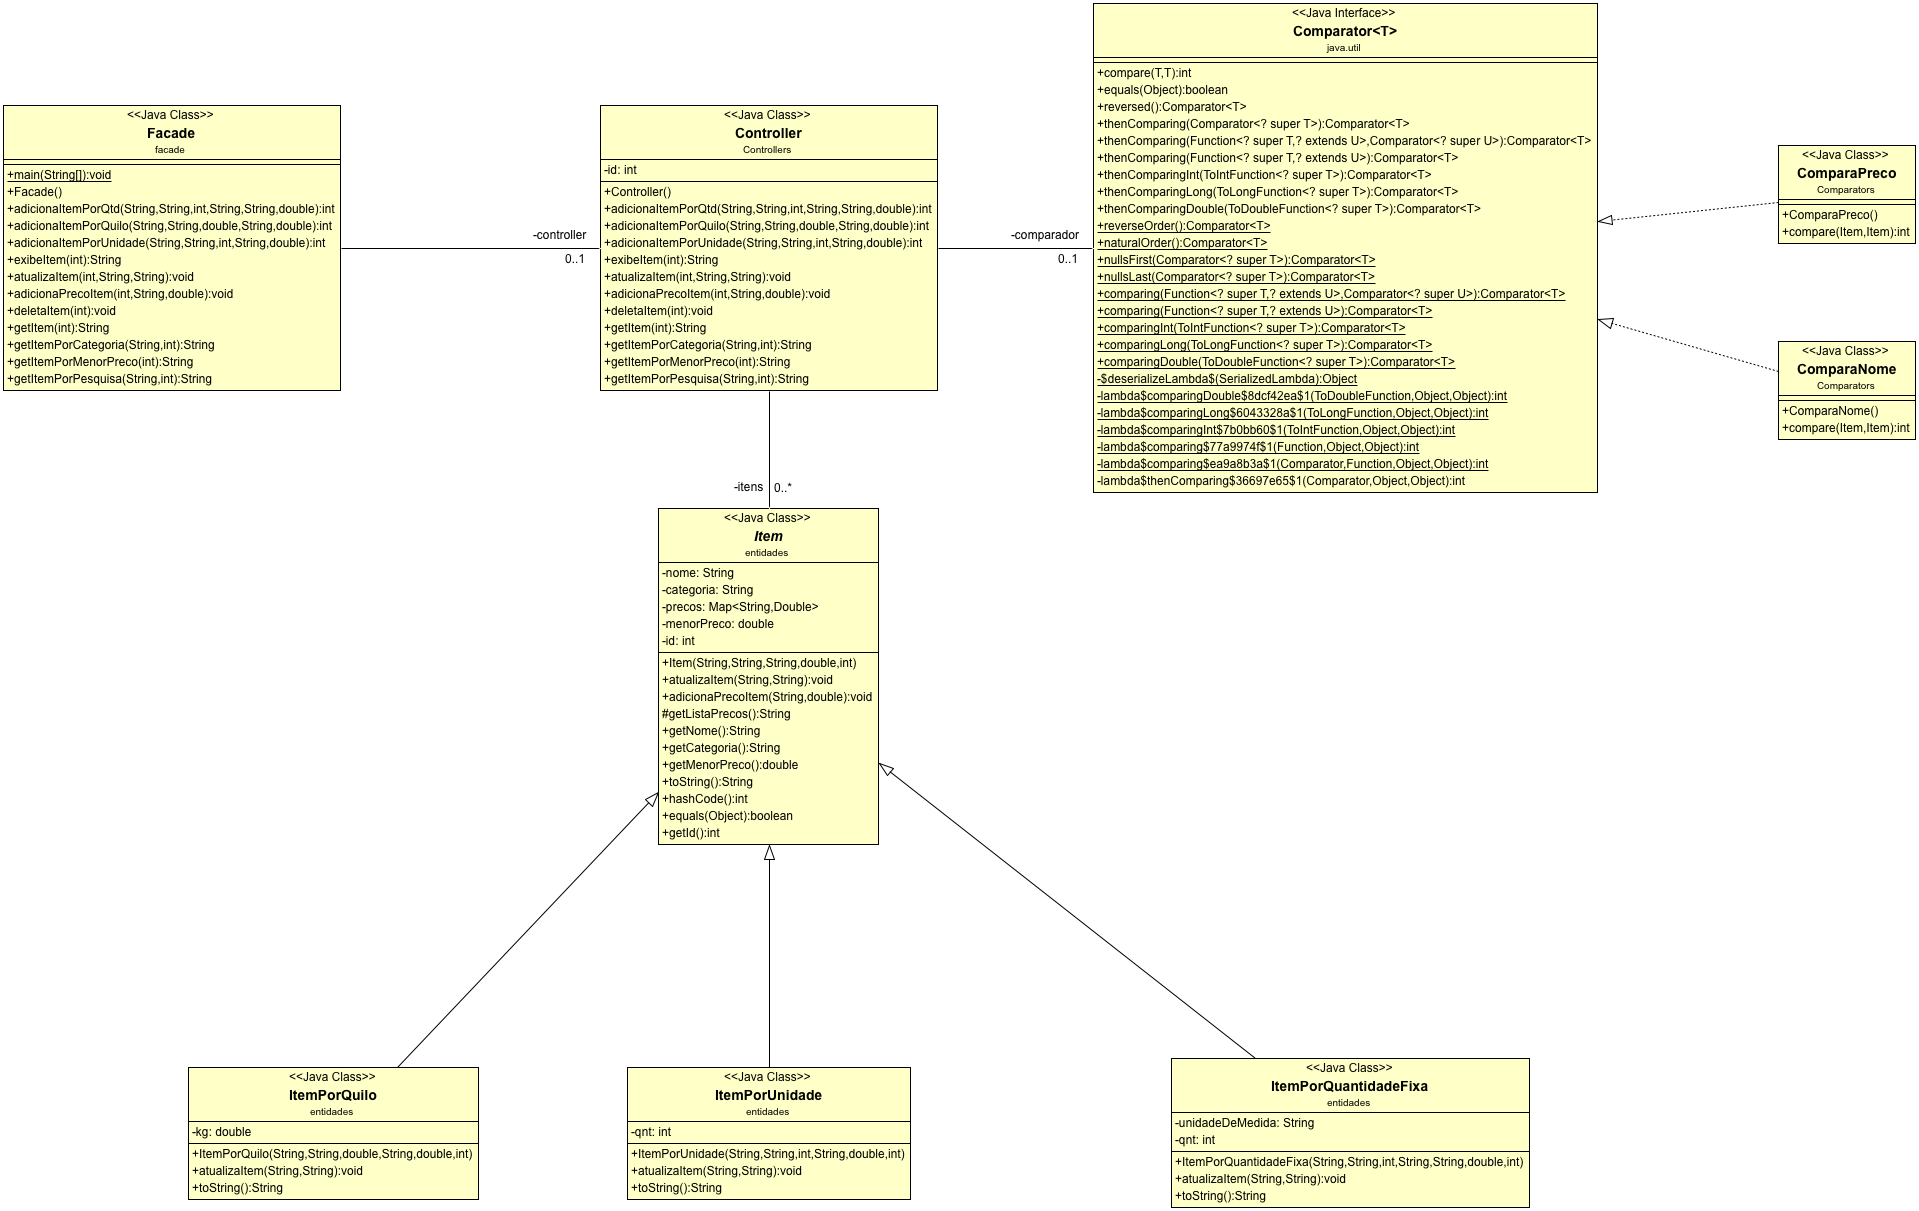
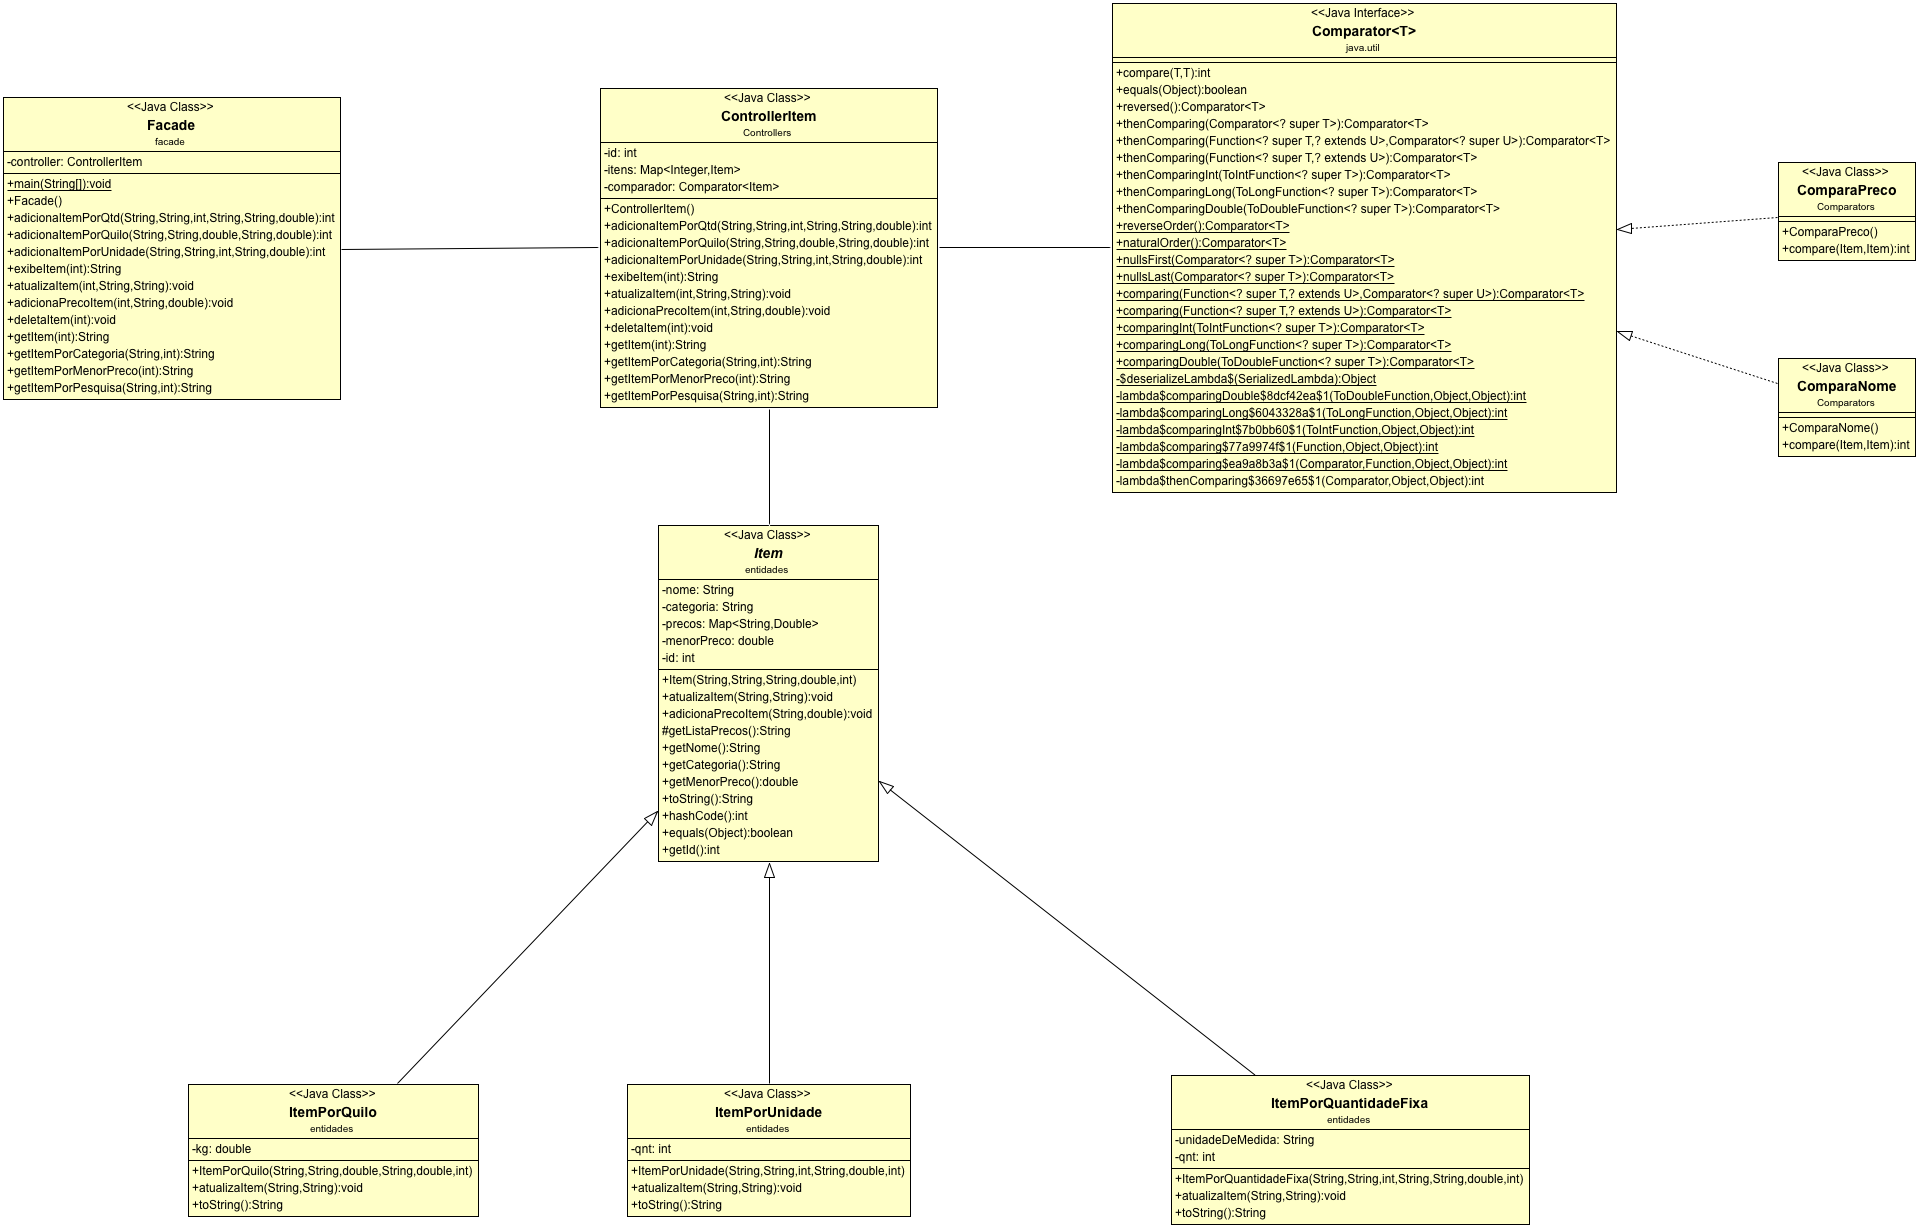
Ajustes de controller

diff --git a/Lista_pra_mim-Project/src/Controllers/ControllerItem.java b/Lista_pra_mim-Project/src/Controllers/ControllerItem.java
@@ -25,7 +25,7 @@ import entidades.ItemPorUnidade;
  * @author Rafael Azevedo - 117210382
  *
  */
-public class Controller {
+public class ControllerItem {
 
 	// Um inteiro que representa o id de um Item.
 	private int id;
@@ -41,7 +41,7 @@ public class Controller {
 	 *
 	 * Este metodo nao retorna nenhum valor.
 	 */
-	public Controller() {
+	public ControllerItem() {
 		this.id = 1;
 		this.itens = new HashMap<>();
 		this.comparador = new ComparaNome();
@@ -256,10 +256,10 @@ public class Controller {
 				itensOrdenados.add(item);
 			}
 		}
-		Collections.sort(itensOrdenados, this.comparador);
 		if (itensOrdenados.size() <= posicao) {
 			return "";
 		}
+		Collections.sort(itensOrdenados, this.comparador);
 		return String.format("%d. %s", itensOrdenados.get(posicao).getId(), itensOrdenados.get(posicao).toString());
 	}
 
@@ -310,10 +310,10 @@ public class Controller {
 				}
 			}
 		}
-		Collections.sort(itensOrdenados, this.comparador);
 		if (itensOrdenados.size() <= posicao) {
 			return "";
 		}
+		Collections.sort(itensOrdenados, this.comparador);
 		return String.format("%d. %s", itensOrdenados.get(posicao).getId(), itensOrdenados.get(posicao).toString());
 	}
 

diff --git a/Lista_pra_mim-Project/tests/ControllerTest/ControllerTest.java b/Lista_pra_mim-Project/tests/ControllerTest/ControllerTest.java
@@ -5,7 +5,7 @@ import static org.junit.Assert.*;
 import org.junit.Before;
 import org.junit.Test;
 
-import Controllers.Controller;
+import Controllers.ControllerItem;
 
 /**
  * 
@@ -21,7 +21,7 @@ import Controllers.Controller;
 public class ControllerTest {
 
 	// Instanciacao de objetos do tipo Controller.
-	private Controller controller, outroController;
+	private ControllerItem controller, outroController;
 
 	/**
 	 * Metodo que inicializa o Controller.
@@ -30,7 +30,7 @@ public class ControllerTest {
 	 */
 	@Before
 	public void inicializa() {
-		this.controller = new Controller();
+		this.controller = new ControllerItem();
 		this.controller.adicionaItemPorQtd("Agua Sanitaria Drogon", "limpeza", 1, "l", "Supermercado Excepcional",
 				2.19);
 	}
@@ -43,7 +43,7 @@ public class ControllerTest {
 	@Test
 	public void testController() {
 		assertTrue(outroController == null);
-		outroController = new Controller();
+		outroController = new ControllerItem();
 		assertTrue(outroController != null);
 	}
 

diff --git a/Lista_pra_mim-Project/src/facade/Facade.java b/Lista_pra_mim-Project/src/facade/Facade.java
@@ -1,6 +1,6 @@
 package facade;
 
-import Controllers.Controller;
+import Controllers.ControllerItem;
 import easyaccept.EasyAccept;
 
 /**
@@ -18,7 +18,7 @@ public class Facade {
 	/**
 	 * Este atributo representa o objeto Controller.
 	 */
-	private Controller controller;
+	private ControllerItem controller;
 
     public static void main(String[] args) {
         args = new String[]{"facade.Facade", "acceptance_tests/use_case1.txt",
@@ -32,7 +32,7 @@ public class Facade {
      * Constroi o objeto Facade, e inicializa o objeto Controller.
      */
     public Facade() {
-        this.controller = new Controller();
+        this.controller = new ControllerItem();
     }
 
     /**

diff --git a/Lista_pra_mim-Project/src/entidades/ItemPorQuantidadeFixa.java b/Lista_pra_mim-Project/src/entidades/ItemPorQuantidadeFixa.java
@@ -70,11 +70,11 @@ public class ItemPorQuantidadeFixa extends Item {
      */
     @Override
     public void atualizaItem(String atributo, String novoValor) {
-        super.atualizaItem(atributo, novoValor);
 
         switch (atributo.trim().toLowerCase()) {
             case "nome":
             case "categoria":
+            	super.atualizaItem(atributo, novoValor);
                 break;
 
             case "quantidade":

diff --git a/Lista_pra_mim-Project/src/entidades/ItemPorUnidade.java b/Lista_pra_mim-Project/src/entidades/ItemPorUnidade.java
@@ -55,11 +55,11 @@ public class ItemPorUnidade extends Item {
      */
     @Override
     public void atualizaItem(String atributo, String novoValor) {
-        super.atualizaItem(atributo, novoValor);
 
         switch (atributo.trim().toLowerCase()) {
             case "nome":
             case "categoria":
+            	super.atualizaItem(atributo, novoValor);
                 break;
 
             case "unidade":

diff --git a/Lista_pra_mim-Project/src/entidades/ItemPorQuilo.java b/Lista_pra_mim-Project/src/entidades/ItemPorQuilo.java
@@ -55,11 +55,11 @@ public class ItemPorQuilo extends Item {
      */
     @Override
     public void atualizaItem(String atributo, String novoValor) {
-        super.atualizaItem(atributo, novoValor);
 
         switch (atributo.trim().toLowerCase()) {
             case "nome":
             case "categoria":
+            	super.atualizaItem(atributo, novoValor);
                 break;
 
             case "kg":
